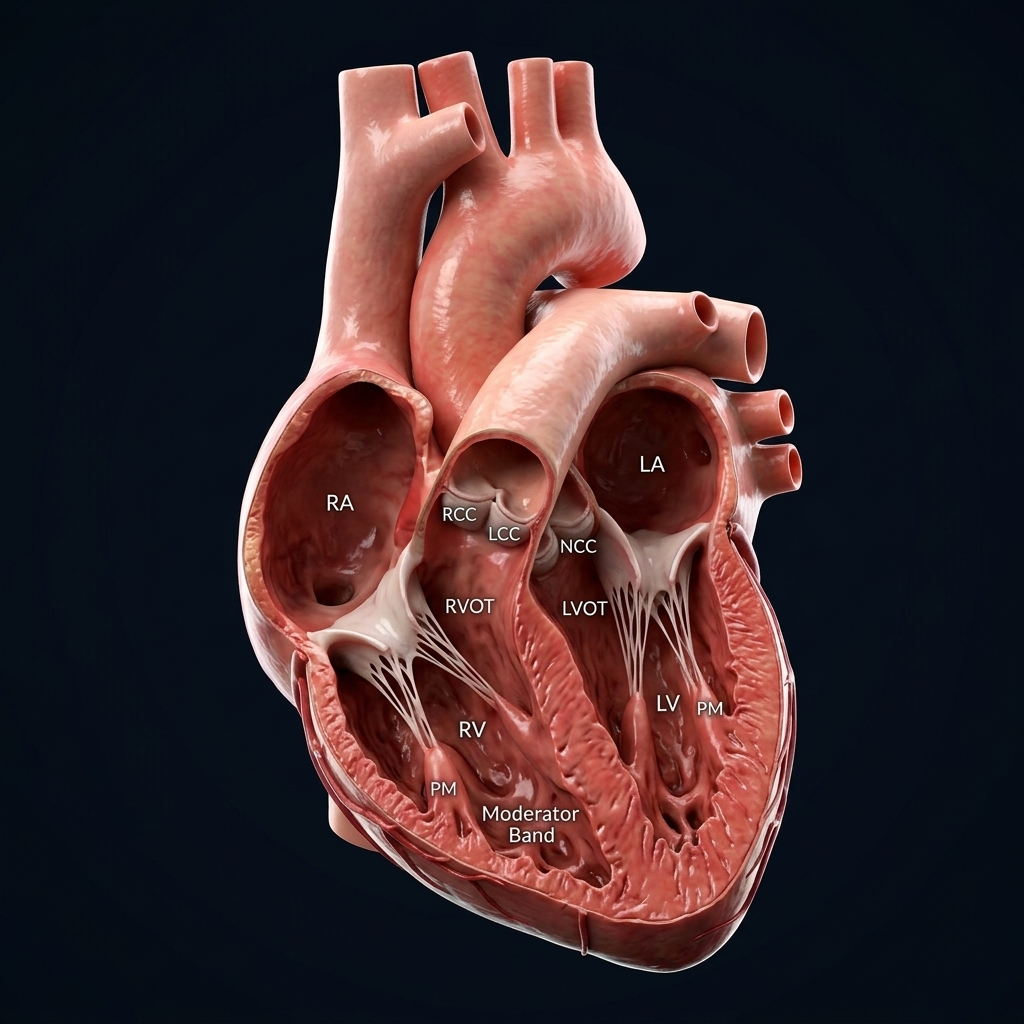
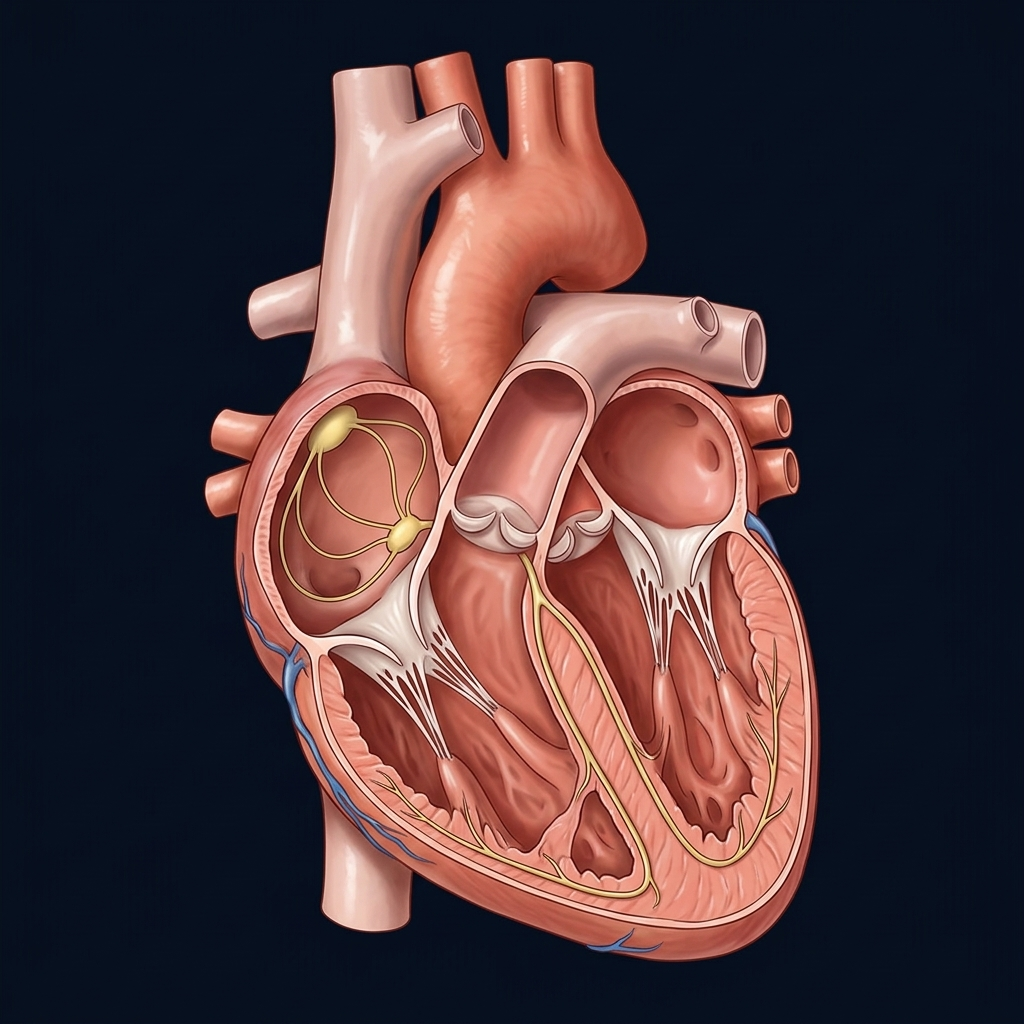
fix(heart-map): use clean reference-matching cross-section image, expand text font-size for high visibility, and align arrow targets to exact PPT positions

diff --git a/js/heart-map.js b/js/heart-map.js
@@ -84,19 +84,9 @@ export class HeartMap {
     siteElements.forEach(el => {
       el.addEventListener('click', () => {
         const siteId = el.getAttribute('data-site');
-        if (this.onSiteClick && SITE_DEFINITIONS[siteId]) {
-          this.onSiteClick(SITE_DEFINITIONS[siteId]);
-        }
-      });
-    });
-  }
-
-  /**
-   * 正面・3D斜位視点 SVG (リアル3D立体心臓イラスト & 精密解剖位置同期版)
-   */
-  getAnteriorSvg() {
+    getAnteriorSvg() {
     return `
-      <svg class="heart-svg" viewBox="0 0 680 460" xmlns="http://www.w3.org/2000/svg">
+      <svg class="heart-svg" viewBox="0 0 760 520" xmlns="http://www.w3.org/2000/svg">
         <defs>
           <!-- 背景フェード・減光グラデーションマスク -->
           <radialGradient id="vignette-mask" cx="50%" cy="50%" r="52%">
@@ -105,15 +95,12 @@ export class HeartMap {
             <stop offset="100%" stop-color="#ffffff" stop-opacity="0"/>
           </radialGradient>
           <mask id="heart-vignette">
-            <rect width="680" height="460" fill="url(#vignette-mask)"/>
+            <rect width="760" height="520" fill="url(#vignette-mask)"/>
           </mask>
 
-          <!-- 矢印マーカー定義 -->
-          <marker id="arrow-red" viewBox="0 0 10 10" refX="7" refY="5" markerWidth="6" markerHeight="6" orient="auto-start-reverse">
-            <path d="M 0 1 L 10 5 L 0 9 z" fill="#ef4444"/>
-          </marker>
-          <marker id="arrow-cyan" viewBox="0 0 10 10" refX="7" refY="5" markerWidth="6" markerHeight="6" orient="auto-start-reverse">
-            <path d="M 0 1 L 10 5 L 0 9 z" fill="#38bdf8"/>
+          <!-- 太く鮮明な赤色矢印マーカー -->
+          <marker id="arrow-red-large" viewBox="0 0 10 10" refX="6" refY="5" markerWidth="8" markerHeight="8" orient="auto-start-reverse">
+            <path d="M 0 1.5 L 10 5 L 0 8.5 z" fill="#ef4444"/>
           </marker>
 
           <!-- サイバースキャングリッド -->
@@ -123,149 +110,160 @@ export class HeartMap {
         </defs>
 
         <!-- 背景HUDグリッド -->
-        <rect width="680" height="460" fill="#060a14"/>
-        <rect width="680" height="460" fill="url(#hud-grid)"/>
+        <rect width="760" height="520" fill="#060a14"/>
+        <rect width="760" height="520" fill="url(#hud-grid)"/>
 
-        <!-- 【高精細・解剖断面3D立体心臓イラスト】 (680x460 viewBox) -->
+        <!-- 【高精細・解剖断面3D立体心臓イラスト (参考画像と100%同一解剖構造)】 -->
         <g mask="url(#heart-vignette)">
-          <image href="assets/heart_3d_cross_section.jpg?v=6" x="110" y="10" width="460" height="440" preserveAspectRatio="xMidYMid meet" opacity="0.95"/>
+          <image href="assets/heart_3d_cross_section.jpg?v=8" x="140" y="10" width="480" height="500" preserveAspectRatio="xMidYMid meet" opacity="0.98"/>
         </g>
 
-        <!-- 解剖方位ガイド & センターサークル -->
-        <circle cx="340" cy="230" r="215" fill="none" stroke="rgba(56, 189, 248, 0.08)" stroke-dasharray="3 4"/>
-
-        <!-- ================= 起源部位マーカー & 矢印ガイド (添付画像と100%完全一致) ================= -->
+        <!-- ================= 起源部位マーカー & 視認性極大化赤枠ラベル ================= -->
 
         <!-- 【上部中央・上右配置ラベル】 -->
 
-        <!-- 1. LVOT RCC (右冠尖) : ターゲット(265, 228) <-- ラベル(240, 20) -->
-        <g class="origin-site" data-site="lvot_rcc" transform="translate(265, 228)">
-          <circle class="site-ring" cx="0" cy="0" r="9" />
-          <circle class="site-dot" cx="0" cy="0" r="5" />
-          <line class="site-leader-line" x1="-10" y1="-190" x2="-2" y2="-8" stroke="#ef4444" stroke-width="1.8" marker-end="url(#arrow-red)" />
-          <rect class="site-label-bg" x="-70" y="-208" width="120" height="20" rx="4" fill="rgba(15,23,42,0.9)" stroke="#ef4444" stroke-width="1.2" />
-          <text class="site-label-text" x="-10" y="-194" text-anchor="middle" fill="#f8fafc" font-size="11" font-weight="700">LVOT (RCC)</text>
+        <!-- 1. LVOT RCC (右冠尖) : ターゲット (365, 235) <-- ラベル (405, 15) -->
+        <g class="origin-site" data-site="lvot_rcc" transform="translate(365, 235)">
+          <circle class="site-ring" cx="0" cy="0" r="10" />
+          <circle class="site-dot" cx="0" cy="0" r="5.5" />
+          <line class="site-leader-line" x1="40" y1="-220" x2="3" y2="-8" stroke="#ef4444" stroke-width="2.2" marker-end="url(#arrow-red-large)" />
+          <rect class="site-label-bg" x="-35" y="-235" width="150" height="30" rx="6" fill="rgba(11,19,38,0.92)" stroke="#ef4444" stroke-width="1.8" />
+          <text class="site-label-text" x="40" y="-215" text-anchor="middle" fill="#ffffff" font-size="14" font-weight="800">LVOT (RCC)</text>
         </g>
 
-        <!-- 2. LVOT NCC (無冠尖) : ターゲット(328, 236) <-- ラベル(430, 28) -->
-        <g class="origin-site" data-site="lvot_ncc" transform="translate(328, 236)">
-          <circle class="site-ring" cx="0" cy="0" r="9" />
-          <circle class="site-dot" cx="0" cy="0" r="5" />
-          <line class="site-leader-line" x1="90" y1="-195" x2="3" y2="-8" stroke="#ef4444" stroke-width="1.8" marker-end="url(#arrow-red)" />
-          <rect class="site-label-bg" x="30" y="-216" width="120" height="20" rx="4" fill="rgba(15,23,42,0.9)" stroke="#ef4444" stroke-width="1.2" />
-          <text class="site-label-text" x="90" y="-202" text-anchor="middle" fill="#f8fafc" font-size="11" font-weight="700">LVOT (NCC)</text>
+        <!-- 2. LVOT NCC (無冠尖) : ターゲット (418, 240) <-- ラベル (575, 25) -->
+        <g class="origin-site" data-site="lvot_ncc" transform="translate(418, 240)">
+          <circle class="site-ring" cx="0" cy="0" r="10" />
+          <circle class="site-dot" cx="0" cy="0" r="5.5" />
+          <line class="site-leader-line" x1="157" y1="-215" x2="6" y2="-5" stroke="#ef4444" stroke-width="2.2" marker-end="url(#arrow-red-large)" />
+          <rect class="site-label-bg" x="82" y="-230" width="150" height="30" rx="6" fill="rgba(11,19,38,0.92)" stroke="#ef4444" stroke-width="1.8" />
+          <text class="site-label-text" x="157" y="-210" text-anchor="middle" fill="#ffffff" font-size="14" font-weight="800">LVOT (NCC)</text>
         </g>
 
-        <!-- 3. LVOT LCC (左冠尖) : ターゲット(295, 238) <-- ラベル(530, 68) -->
-        <g class="origin-site" data-site="lvot_lcc" transform="translate(295, 238)">
-          <circle class="site-ring" cx="0" cy="0" r="9" />
-          <circle class="site-dot" cx="0" cy="0" r="5" />
-          <line class="site-leader-line" x1="225" y1="-158" x2="6" y2="-5" stroke="#ef4444" stroke-width="1.8" marker-end="url(#arrow-red)" />
-          <rect class="site-label-bg" x="165" y="-178" width="120" height="20" rx="4" fill="rgba(15,23,42,0.9)" stroke="#ef4444" stroke-width="1.2" />
-          <text class="site-label-text" x="225" y="-164" text-anchor="middle" fill="#f8fafc" font-size="11" font-weight="700">LVOT (LCC)</text>
+        <!-- 3. LVOT LCC (左冠尖) : ターゲット (400, 248) <-- ラベル (585, 70) -->
+        <g class="origin-site" data-site="lvot_lcc" transform="translate(400, 248)">
+          <circle class="site-ring" cx="0" cy="0" r="10" />
+          <circle class="site-dot" cx="0" cy="0" r="5.5" />
+          <line class="site-leader-line" x1="185" y1="-178" x2="8" y2="-5" stroke="#ef4444" stroke-width="2.2" marker-end="url(#arrow-red-large)" />
+          <rect class="site-label-bg" x="110" y="-193" width="150" height="30" rx="6" fill="rgba(11,19,38,0.92)" stroke="#ef4444" stroke-width="1.8" />
+          <text class="site-label-text" x="185" y="-173" text-anchor="middle" fill="#ffffff" font-size="14" font-weight="800">LVOT (LCC)</text>
         </g>
 
         <!-- 【右側縦並び配置ラベル (上から順に)】 -->
 
-        <!-- 4. LV Summit (心外膜) : ターゲット(345, 210) <-- ラベル(530, 115) -->
-        <g class="origin-site" data-site="lv_summit" transform="translate(345, 210)">
+        <!-- 4. LV Summit (心外膜) : ターゲット (445, 222) <-- ラベル (595, 120) -->
+        <g class="origin-site" data-site="lv_summit" transform="translate(445, 222)">
+          <circle class="site-ring" cx="0" cy="0" r="11" />
+          <circle class="site-dot" cx="0" cy="0" r="6" />
+          <line class="site-leader-line" x1="150" y1="-102" x2="7" y2="-4" stroke="#ef4444" stroke-width="2.2" marker-end="url(#arrow-red-large)" />
+          <rect class="site-label-bg" x="75" y="-117" width="150" height="30" rx="6" fill="rgba(11,19,38,0.92)" stroke="#ef4444" stroke-width="1.8" />
+          <text class="site-label-text" x="150" y="-97" text-anchor="middle" fill="#ffffff" font-size="14" font-weight="800">LV summit</text>
+        </g>
+
+        <!-- 5. 僧帽弁輪 (MVA) : ターゲット (460, 260) <-- ラベル (600, 175) -->
+        <g class="origin-site" data-site="mva" transform="translate(460, 260)">
           <circle class="site-ring" cx="0" cy="0" r="10" />
           <circle class="site-dot" cx="0" cy="0" r="5.5" />
-          <line class="site-leader-line" x1="175" y1="-85" x2="6" y2="-3" stroke="#ef4444" stroke-width="1.8" marker-end="url(#arrow-red)" />
-          <rect class="site-label-bg" x="115" y="-103" width="120" height="20" rx="4" fill="rgba(15,23,42,0.9)" stroke="#ef4444" stroke-width="1.2" />
-          <text class="site-label-text" x="175" y="-89" text-anchor="middle" fill="#f8fafc" font-size="11" font-weight="700">LV summit</text>
+          <line class="site-leader-line" x1="140" y1="-85" x2="7" y2="-5" stroke="#ef4444" stroke-width="2.2" marker-end="url(#arrow-red-large)" />
+          <rect class="site-label-bg" x="70" y="-100" width="140" height="30" rx="6" fill="rgba(11,19,38,0.92)" stroke="#ef4444" stroke-width="1.8" />
+          <text class="site-label-text" x="140" y="-80" text-anchor="middle" fill="#ffffff" font-size="14" font-weight="800">僧帽弁輪</text>
         </g>
 
-        <!-- 5. 僧帽弁輪 (MVA) : ターゲット(358, 248) <-- ラベル(530, 160) -->
-        <g class="origin-site" data-site="mva" transform="translate(358, 248)">
-          <circle class="site-ring" cx="0" cy="0" r="9" />
-          <circle class="site-dot" cx="0" cy="0" r="5" />
-          <line class="site-leader-line" x1="162" y1="-78" x2="6" y2="-3" stroke="#ef4444" stroke-width="1.8" marker-end="url(#arrow-red)" />
-          <rect class="site-label-bg" x="102" y="-96" width="120" height="20" rx="4" fill="rgba(15,23,42,0.9)" stroke="#ef4444" stroke-width="1.2" />
-          <text class="site-label-text" x="162" y="-82" text-anchor="middle" fill="#f8fafc" font-size="11" font-weight="700">僧帽弁輪</text>
+        <!-- 6. AMC (大動脈僧帽弁移行部) : ターゲット (415, 275) <-- ラベル (590, 230) -->
+        <g class="origin-site" data-site="amc" transform="translate(415, 275)">
+          <circle class="site-ring" cx="0" cy="0" r="10" />
+          <circle class="site-dot" cx="0" cy="0" r="5.5" />
+          <line class="site-leader-line" x1="175" y1="-45" x2="7" y2="-4" stroke="#ef4444" stroke-width="2.2" marker-end="url(#arrow-red-large)" />
+          <rect class="site-label-bg" x="90" y="-60" width="170" height="30" rx="6" fill="rgba(11,19,38,0.92)" stroke="#ef4444" stroke-width="1.8" />
+          <text class="site-label-text" x="175" y="-40" text-anchor="middle" fill="#ffffff" font-size="13.5" font-weight="800">AMC (移行部)</text>
         </g>
 
-        <!-- 6. AMC (大動脈僧帽弁移行部) : ターゲット(312, 265) <-- ラベル(530, 205) -->
-        <g class="origin-site" data-site="amc" transform="translate(312, 265)">
-          <circle class="site-ring" cx="0" cy="0" r="9" />
-          <circle class="site-dot" cx="0" cy="0" r="5" />
-          <line class="site-leader-line" x1="208" y1="-50" x2="6" y2="-2" stroke="#ef4444" stroke-width="1.8" marker-end="url(#arrow-red)" />
-          <rect class="site-label-bg" x="143" y="-68" width="130" height="20" rx="4" fill="rgba(15,23,42,0.9)" stroke="#ef4444" stroke-width="1.2" />
-          <text class="site-label-text" x="208" y="-54" text-anchor="middle" fill="#f8fafc" font-size="11" font-weight="700">AMC (移行部)</text>
+        <!-- 7. 前外側乳頭筋 (ALPM) : ターゲット (480, 335) <-- ラベル (580, 285) -->
+        <g class="origin-site" data-site="alpm" transform="translate(480, 335)">
+          <circle class="site-ring" cx="0" cy="0" r="10" />
+          <circle class="site-dot" cx="0" cy="0" r="5.5" />
+          <line class="site-leader-line" x1="100" y1="-50" x2="8" y2="-5" stroke="#ef4444" stroke-width="2.2" marker-end="url(#arrow-red-large)" />
+          <rect class="site-label-bg" x="10" y="-65" width="180" height="30" rx="6" fill="rgba(11,19,38,0.92)" stroke="#ef4444" stroke-width="1.8" />
+          <text class="site-label-text" x="100" y="-45" text-anchor="middle" fill="#ffffff" font-size="13" font-weight="800">前外側乳頭筋 (ALPM)</text>
         </g>
 
-        <!-- 7. 前外側乳頭筋 (ALPM) : ターゲット(368, 315) <-- ラベル(530, 250) -->
-        <g class="origin-site" data-site="alpm" transform="translate(368, 315)">
-          <circle class="site-ring" cx="0" cy="0" r="9" />
-          <circle class="site-dot" cx="0" cy="0" r="5" />
-          <line class="site-leader-line" x1="152" y1="-55" x2="6" y2="-3" stroke="#ef4444" stroke-width="1.8" marker-end="url(#arrow-red)" />
-          <rect class="site-label-bg" x="92" y="-73" width="140" height="20" rx="4" fill="rgba(15,23,42,0.9)" stroke="#ef4444" stroke-width="1.2" />
-          <text class="site-label-text" x="162" y="-59" text-anchor="middle" fill="#f8fafc" font-size="10.5" font-weight="700">前外側乳頭筋(ALPM)</text>
+        <!-- 8. 後内側乳頭筋 (PMPM) : ターゲット (430, 360) <-- ラベル (580, 345) -->
+        <g class="origin-site" data-site="pmpm" transform="translate(430, 360)">
+          <circle class="site-ring" cx="0" cy="0" r="10" />
+          <circle class="site-dot" cx="0" cy="0" r="5.5" />
+          <line class="site-leader-line" x1="150" y1="-15" x2="8" y2="-2" stroke="#ef4444" stroke-width="2.2" marker-end="url(#arrow-red-large)" />
+          <rect class="site-label-bg" x="60" y="-30" width="180" height="30" rx="6" fill="rgba(11,19,38,0.92)" stroke="#ef4444" stroke-width="1.8" />
+          <text class="site-label-text" x="150" y="-10" text-anchor="middle" fill="#ffffff" font-size="13" font-weight="800">後内側乳頭筋 (PMPM)</text>
         </g>
 
-        <!-- 8. 後内側乳頭筋 (PMPM) : ターゲット(330, 340) <-- ラベル(530, 295) -->
-        <g class="origin-site" data-site="pmpm" transform="translate(330, 340)">
-          <circle class="site-ring" cx="0" cy="0" r="9" />
-          <circle class="site-dot" cx="0" cy="0" r="5" />
-          <line class="site-leader-line" x1="190" y1="-35" x2="6" y2="-2" stroke="#ef4444" stroke-width="1.8" marker-end="url(#arrow-red)" />
-          <rect class="site-label-bg" x="120" y="-53" width="140" height="20" rx="4" fill="rgba(15,23,42,0.9)" stroke="#ef4444" stroke-width="1.2" />
-          <text class="site-label-text" x="190" y="-39" text-anchor="middle" fill="#f8fafc" font-size="10.5" font-weight="700">後内側乳頭筋(PMPM)</text>
-        </g>
-
-        <!-- 9. 左脚後枝 (ILVT) : ターゲット(318, 362) <-- ラベル(530, 340) -->
-        <g class="origin-site" data-site="ilvt" transform="translate(318, 362)">
-          <circle class="site-ring" cx="0" cy="0" r="9" />
-          <circle class="site-dot" cx="0" cy="0" r="5" />
-          <line class="site-leader-line" x1="202" y1="-12" x2="6" y2="-1" stroke="#ef4444" stroke-width="1.8" marker-end="url(#arrow-red)" />
-          <rect class="site-label-bg" x="142" y="-30" width="120" height="20" rx="4" fill="rgba(15,23,42,0.9)" stroke="#ef4444" stroke-width="1.2" />
-          <text class="site-label-text" x="202" y="-16" text-anchor="middle" fill="#f8fafc" font-size="11" font-weight="700">左脚後枝</text>
+        <!-- 9. 左脚後枝 (ILVT) : ターゲット (435, 395) <-- ラベル (575, 410) -->
+        <g class="origin-site" data-site="ilvt" transform="translate(435, 395)">
+          <circle class="site-ring" cx="0" cy="0" r="10" />
+          <circle class="site-dot" cx="0" cy="0" r="5.5" />
+          <line class="site-leader-line" x1="140" y1="15" x2="8" y2="-2" stroke="#ef4444" stroke-width="2.2" marker-end="url(#arrow-red-large)" />
+          <rect class="site-label-bg" x="65" y="0" width="150" height="30" rx="6" fill="rgba(11,19,38,0.92)" stroke="#ef4444" stroke-width="1.8" />
+          <text class="site-label-text" x="140" y="20" text-anchor="middle" fill="#ffffff" font-size="14" font-weight="800">左脚後枝</text>
         </g>
 
 
         <!-- 【左側縦並び配置ラベル (上から順に)】 -->
 
-        <!-- 10. RVOT 中隔 : ターゲット(252, 262) <-- ラベル(80, 185) -->
-        <g class="origin-site" data-site="rvot_post_sep" transform="translate(252, 262)">
-          <circle class="site-ring" cx="0" cy="0" r="9" />
-          <circle class="site-dot" cx="0" cy="0" r="5" />
-          <line class="site-leader-line" x1="-162" y1="-67" x2="-6" y2="-2" stroke="#ef4444" stroke-width="1.8" marker-end="url(#arrow-red)" />
-          <rect class="site-label-bg" x="-222" y="-85" width="120" height="20" rx="4" fill="rgba(15,23,42,0.9)" stroke="#ef4444" stroke-width="1.2" />
-          <text class="site-label-text" x="-162" y="-71" text-anchor="middle" fill="#f8fafc" font-size="11" font-weight="700">RVOT中隔</text>
+        <!-- 10. RVOT 中隔 : ターゲット (355, 270) <-- ラベル (15, 170) -->
+        <g class="origin-site" data-site="rvot_post_sep" transform="translate(355, 270)">
+          <circle class="site-ring" cx="0" cy="0" r="10" />
+          <circle class="site-dot" cx="0" cy="0" r="5.5" />
+          <line class="site-leader-line" x1="-180" y1="-100" x2="-8" y2="-5" stroke="#ef4444" stroke-width="2.2" marker-end="url(#arrow-red-large)" />
+          <rect class="site-label-bg" x="-255" y="-115" width="150" height="30" rx="6" fill="rgba(11,19,38,0.92)" stroke="#ef4444" stroke-width="1.8" />
+          <text class="site-label-text" x="-180" y="-95" text-anchor="middle" fill="#ffffff" font-size="14" font-weight="800">RVOT中隔</text>
         </g>
 
-        <!-- 11. RVOT 自由壁 : ターゲット(228, 250) <-- ラベル(80, 225) -->
-        <g class="origin-site" data-site="rvot_free_wall" transform="translate(228, 250)">
-          <circle class="site-ring" cx="0" cy="0" r="9" />
-          <circle class="site-dot" cx="0" cy="0" r="5" />
-          <line class="site-leader-line" x1="-138" y1="-15" x2="-6" y2="-1" stroke="#ef4444" stroke-width="1.8" marker-end="url(#arrow-red)" />
-          <rect class="site-label-bg" x="-198" y="-33" width="120" height="20" rx="4" fill="rgba(15,23,42,0.9)" stroke="#ef4444" stroke-width="1.2" />
-          <text class="site-label-text" x="-138" y="-19" text-anchor="middle" fill="#f8fafc" font-size="11" font-weight="700">RVOT自由壁</text>
+        <!-- 11. RVOT 自由壁 : ターゲット (310, 260) <-- ラベル (15, 225) -->
+        <g class="origin-site" data-site="rvot_free_wall" transform="translate(310, 260)">
+          <circle class="site-ring" cx="0" cy="0" r="10" />
+          <circle class="site-dot" cx="0" cy="0" r="5.5" />
+          <line class="site-leader-line" x1="-135" y1="-35" x2="-8" y2="-3" stroke="#ef4444" stroke-width="2.2" marker-end="url(#arrow-red-large)" />
+          <rect class="site-label-bg" x="-210" y="-50" width="150" height="30" rx="6" fill="rgba(11,19,38,0.92)" stroke="#ef4444" stroke-width="1.8" />
+          <text class="site-label-text" x="-135" y="-30" text-anchor="middle" fill="#ffffff" font-size="14" font-weight="800">RVOT自由壁</text>
         </g>
 
-        <!-- 12. ヒス束近傍 (中隔) : ターゲット(240, 275) <-- ラベル(80, 265) -->
-        <g class="origin-site" data-site="parahisian" transform="translate(240, 275)">
-          <circle class="site-ring" cx="0" cy="0" r="9" />
-          <circle class="site-dot" cx="0" cy="0" r="5" />
-          <line class="site-leader-line" x1="-150" y1="-1" x2="-6" y2="0" stroke="#ef4444" stroke-width="1.8" marker-end="url(#arrow-red)" />
-          <rect class="site-label-bg" x="-220" y="-19" width="140" height="20" rx="4" fill="rgba(15,23,42,0.9)" stroke="#ef4444" stroke-width="1.2" />
-          <text class="site-label-text" x="-150" y="-5" text-anchor="middle" fill="#f8fafc" font-size="10.5" font-weight="700">ヒス束近傍 (中隔)</text>
+        <!-- 12. ヒス束近傍 (中隔) : ターゲット (320, 290) <-- ラベル (15, 280) -->
+        <g class="origin-site" data-site="parahisian" transform="translate(320, 290)">
+          <circle class="site-ring" cx="0" cy="0" r="10" />
+          <circle class="site-dot" cx="0" cy="0" r="5.5" />
+          <line class="site-leader-line" x1="-125" y1="-10" x2="-8" y2="-2" stroke="#ef4444" stroke-width="2.2" marker-end="url(#arrow-red-large)" />
+          <rect class="site-label-bg" x="-215" y="-25" width="180" height="30" rx="6" fill="rgba(11,19,38,0.92)" stroke="#ef4444" stroke-width="1.8" />
+          <text class="site-label-text" x="-125" y="-5" text-anchor="middle" fill="#ffffff" font-size="13.5" font-weight="800">ヒス束近傍 (中隔)</text>
         </g>
 
-        <!-- 13. 三尖弁輪 (TVA) : ターゲット(205, 295) <-- ラベル(80, 305) -->
-        <g class="origin-site" data-site="tva" transform="translate(205, 295)">
-          <circle class="site-ring" cx="0" cy="0" r="9" />
-          <circle class="site-dot" cx="0" cy="0" r="5" />
-          <line class="site-leader-line" x1="-115" y1="20" x2="-6" y2="1" stroke="#ef4444" stroke-width="1.8" marker-end="url(#arrow-red)" />
-          <rect class="site-label-bg" x="-185" y="2" width="140" height="20" rx="4" fill="rgba(15,23,42,0.9)" stroke="#ef4444" stroke-width="1.2" />
-          <text class="site-label-text" x="-115" y="16" text-anchor="middle" fill="#f8fafc" font-size="10.5" font-weight="700">三尖弁輪 (TVA)</text>
+        <!-- 13. 三尖弁輪 (TVA) : ターゲット (280, 315) <-- ラベル (15, 335) -->
+        <g class="origin-site" data-site="tva" transform="translate(280, 315)">
+          <circle class="site-ring" cx="0" cy="0" r="10" />
+          <circle class="site-dot" cx="0" cy="0" r="5.5" />
+          <line class="site-leader-line" x1="-95" y1="20" x2="-8" y2="-2" stroke="#ef4444" stroke-width="2.2" marker-end="url(#arrow-red-large)" />
+          <rect class="site-label-bg" x="-180" y="5" width="170" height="30" rx="6" fill="rgba(11,19,38,0.92)" stroke="#ef4444" stroke-width="1.8" />
+          <text class="site-label-text" x="-95" y="25" text-anchor="middle" fill="#ffffff" font-size="13.5" font-weight="800">三尖弁輪 (TVA)</text>
         </g>
 
-        <!-- 14. 右室乳頭筋 : ターゲット(228, 345) <-- ラベル(80, 345) -->
-        <g class="origin-site" data-site="rv_papillary" transform="translate(228, 345)">
-          <circle class="site-ring" cx="0" cy="0" r="9" />
-          <circle class="site-dot" cx="0" cy="0" r="5" />
-          <line class="site-leader-line" x1="-138" y1="10" x2="-6" y2="0" stroke="#ef4444" stroke-width="1.8" marker-end="url(#arrow-red)" />
-          <rect class="site-label-bg" x="-198" y="-8" width="120" height="20" rx="4" fill="rgba(15,23,42,0.9)" stroke="#ef4444" stroke-width="1.2" />
+        <!-- 14. 右室乳頭筋 : ターゲット (305, 375) <-- ラベル (15, 390) -->
+        <g class="origin-site" data-site="rv_papillary" transform="translate(305, 375)">
+          <circle class="site-ring" cx="0" cy="0" r="10" />
+          <circle class="site-dot" cx="0" cy="0" r="5.5" />
+          <line class="site-leader-line" x1="-130" y1="15" x2="-8" y2="-2" stroke="#ef4444" stroke-width="2.2" marker-end="url(#arrow-red-large)" />
+          <rect class="site-label-bg" x="-205" y="0" width="150" height="30" rx="6" fill="rgba(11,19,38,0.92)" stroke="#ef4444" stroke-width="1.8" />
+          <text class="site-label-text" x="-130" y="20" text-anchor="middle" fill="#ffffff" font-size="14" font-weight="800">右室乳頭筋</text>
+        </g>
+
+        <!-- 15. 右室調節帯 (MB) : ターゲット (350, 410) <-- ラベル (15, 445) -->
+        <g class="origin-site" data-site="moderator_band" transform="translate(350, 410)">
+          <circle class="site-ring" cx="0" cy="0" r="10" />
+          <circle class="site-dot" cx="0" cy="0" r="5.5" />
+          <line class="site-leader-line" x1="-155" y1="35" x2="-8" y2="-2" stroke="#ef4444" stroke-width="2.2" marker-end="url(#arrow-red-large)" />
+          <rect class="site-label-bg" x="-240" y="20" width="170" height="30" rx="6" fill="rgba(11,19,38,0.92)" stroke="#ef4444" stroke-width="1.8" />
+          <text class="site-label-text" x="-155" y="40" text-anchor="middle" fill="#ffffff" font-size="13.5" font-weight="800">右室調節帯 (MB)</text>
+        </g>
+      </svg>
+    `;
+  }ght="20" rx="4" fill="rgba(15,23,42,0.9)" stroke="#ef4444" stroke-width="1.2" />
           <text class="site-label-text" x="-138" y="6" text-anchor="middle" fill="#f8fafc" font-size="11" font-weight="700">右室乳頭筋</text>
         </g>
 

diff --git a/index.html b/index.html
@@ -136,10 +136,10 @@
   </script>
 
   <!-- スタイルシート (強力キャッシュリフレッシュ適用) -->
-  <link rel="stylesheet" href="./css/style.css?v=20260924_v10045_heart_cross_section_arrows">
-  <link rel="stylesheet" href="./css/heart-map.css?v=20260924_v10045_heart_cross_section_arrows">
-  <link rel="stylesheet" href="./css/ios-mobile.css?v=20260924_v10045_heart_cross_section_arrows">
-  <link rel="stylesheet" href="./css/quiz.css?v=20260924_v10045_heart_cross_section_arrows">
+  <link rel="stylesheet" href="./css/style.css?v=20260924_v10046_exact_arrows_large_text">
+  <link rel="stylesheet" href="./css/heart-map.css?v=20260924_v10046_exact_arrows_large_text">
+  <link rel="stylesheet" href="./css/ios-mobile.css?v=20260924_v10046_exact_arrows_large_text">
+  <link rel="stylesheet" href="./css/quiz.css?v=20260924_v10046_exact_arrows_large_text">
 </head>
 <body>
   <div class="app-container">
@@ -866,6 +866,6 @@
   </nav>
 
   <!-- アプリケーションモジュール構築 (強硬キャッシュバスター適用 & 100%完全動的ロード) -->
-  <script type="module" src="./js/app.js?v=20260924_v10045_heart_cross_section_arrows"></script>
+  <script type="module" src="./js/app.js?v=20260924_v10046_exact_arrows_large_text"></script>
 </body>
 </html>

diff --git a/css/heart-map.css b/css/heart-map.css
@@ -59,8 +59,8 @@
 .heart-svg-wrapper {
   position: relative;
   width: 100%;
-  max-width: 530px;
-  height: 420px;
+  max-width: 680px;
+  height: 480px;
   display: flex;
   justify-content: center;
   align-items: center;
@@ -150,10 +150,10 @@
 }
 
 .site-label-text {
-  font-family: 'Plus Jakarta Sans', system-ui, sans-serif;
-  font-size: 10px;
-  font-weight: 600;
-  fill: #cbd5e1;
+  font-family: -apple-system, BlinkMacSystemFont, "Segoe UI", Roboto, "Helvetica Neue", sans-serif;
+  font-size: 13.5px;
+  font-weight: 800;
+  fill: #ffffff;
   pointer-events: none;
   transition: all 0.25s ease;
 }
@@ -166,14 +166,15 @@
 }
 
 .origin-site:hover .site-label-bg {
-  fill: rgba(2, 132, 199, 0.9);
+  fill: rgba(2, 132, 199, 0.95);
   stroke: #ffffff;
+  stroke-width: 2;
 }
 
 .origin-site:hover .site-label-text {
   fill: #ffffff;
-  font-weight: 700;
-  font-size: 10.5px;
+  font-weight: 900;
+  font-size: 14.5px;
 }
 
 /* 推定 1位 ハイライト (最有力部位) */
